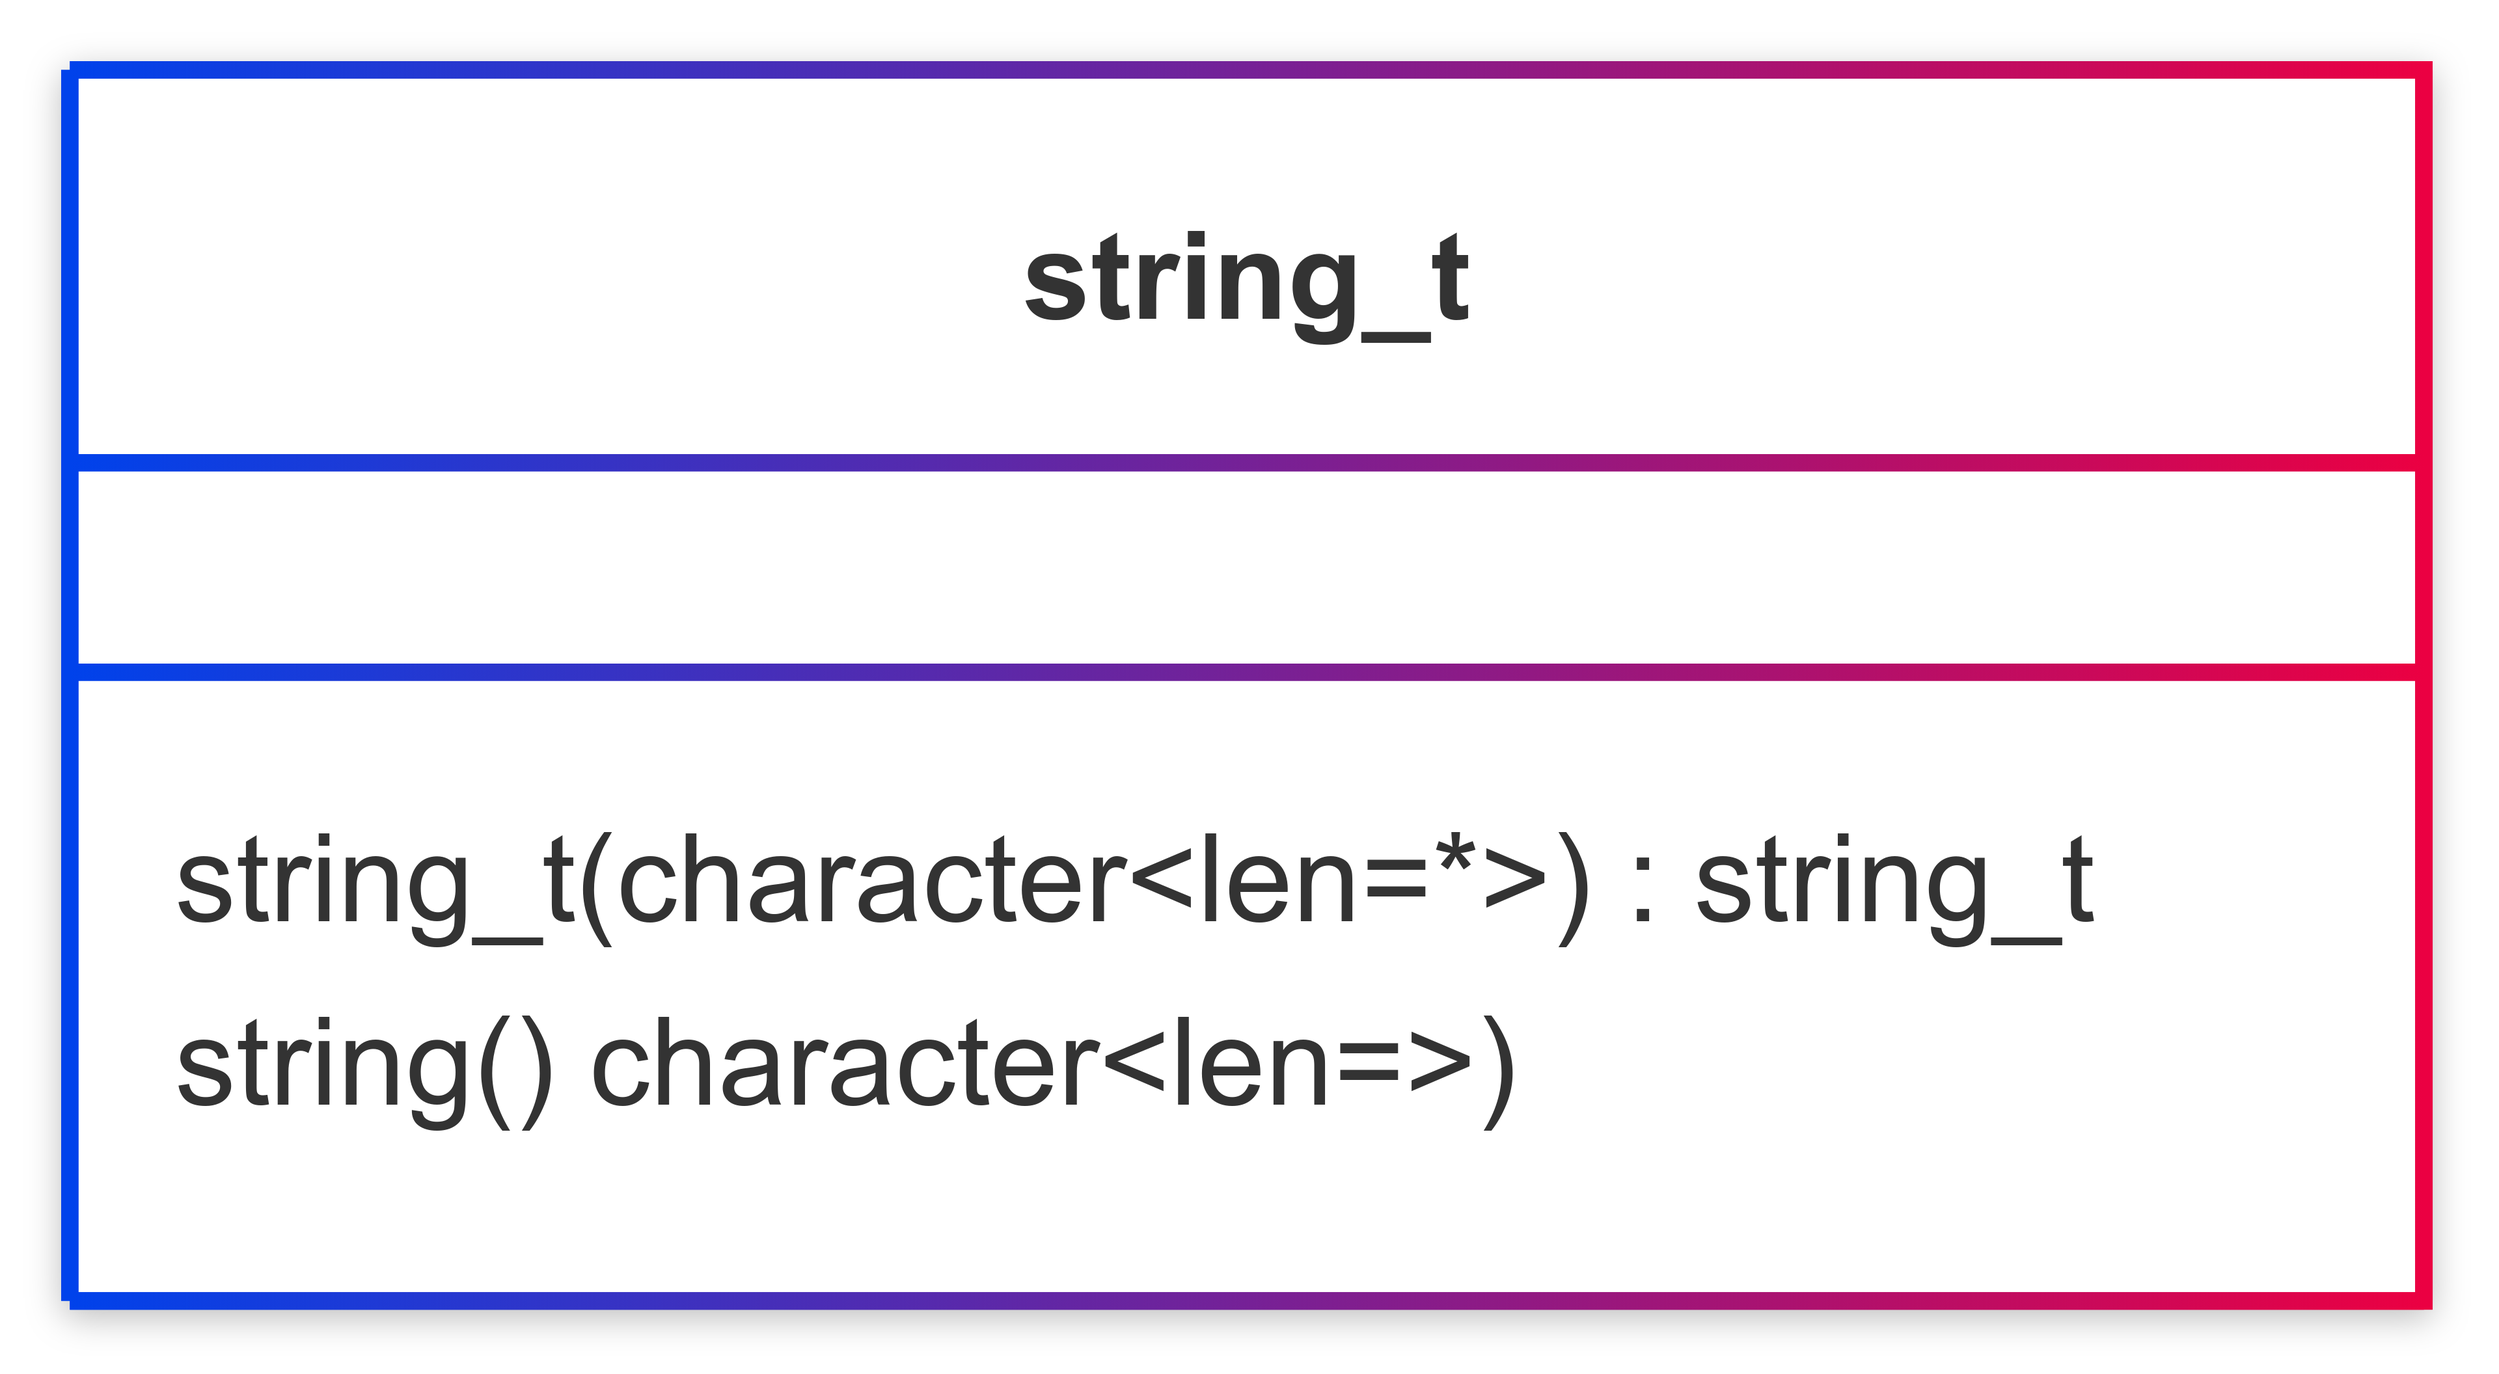
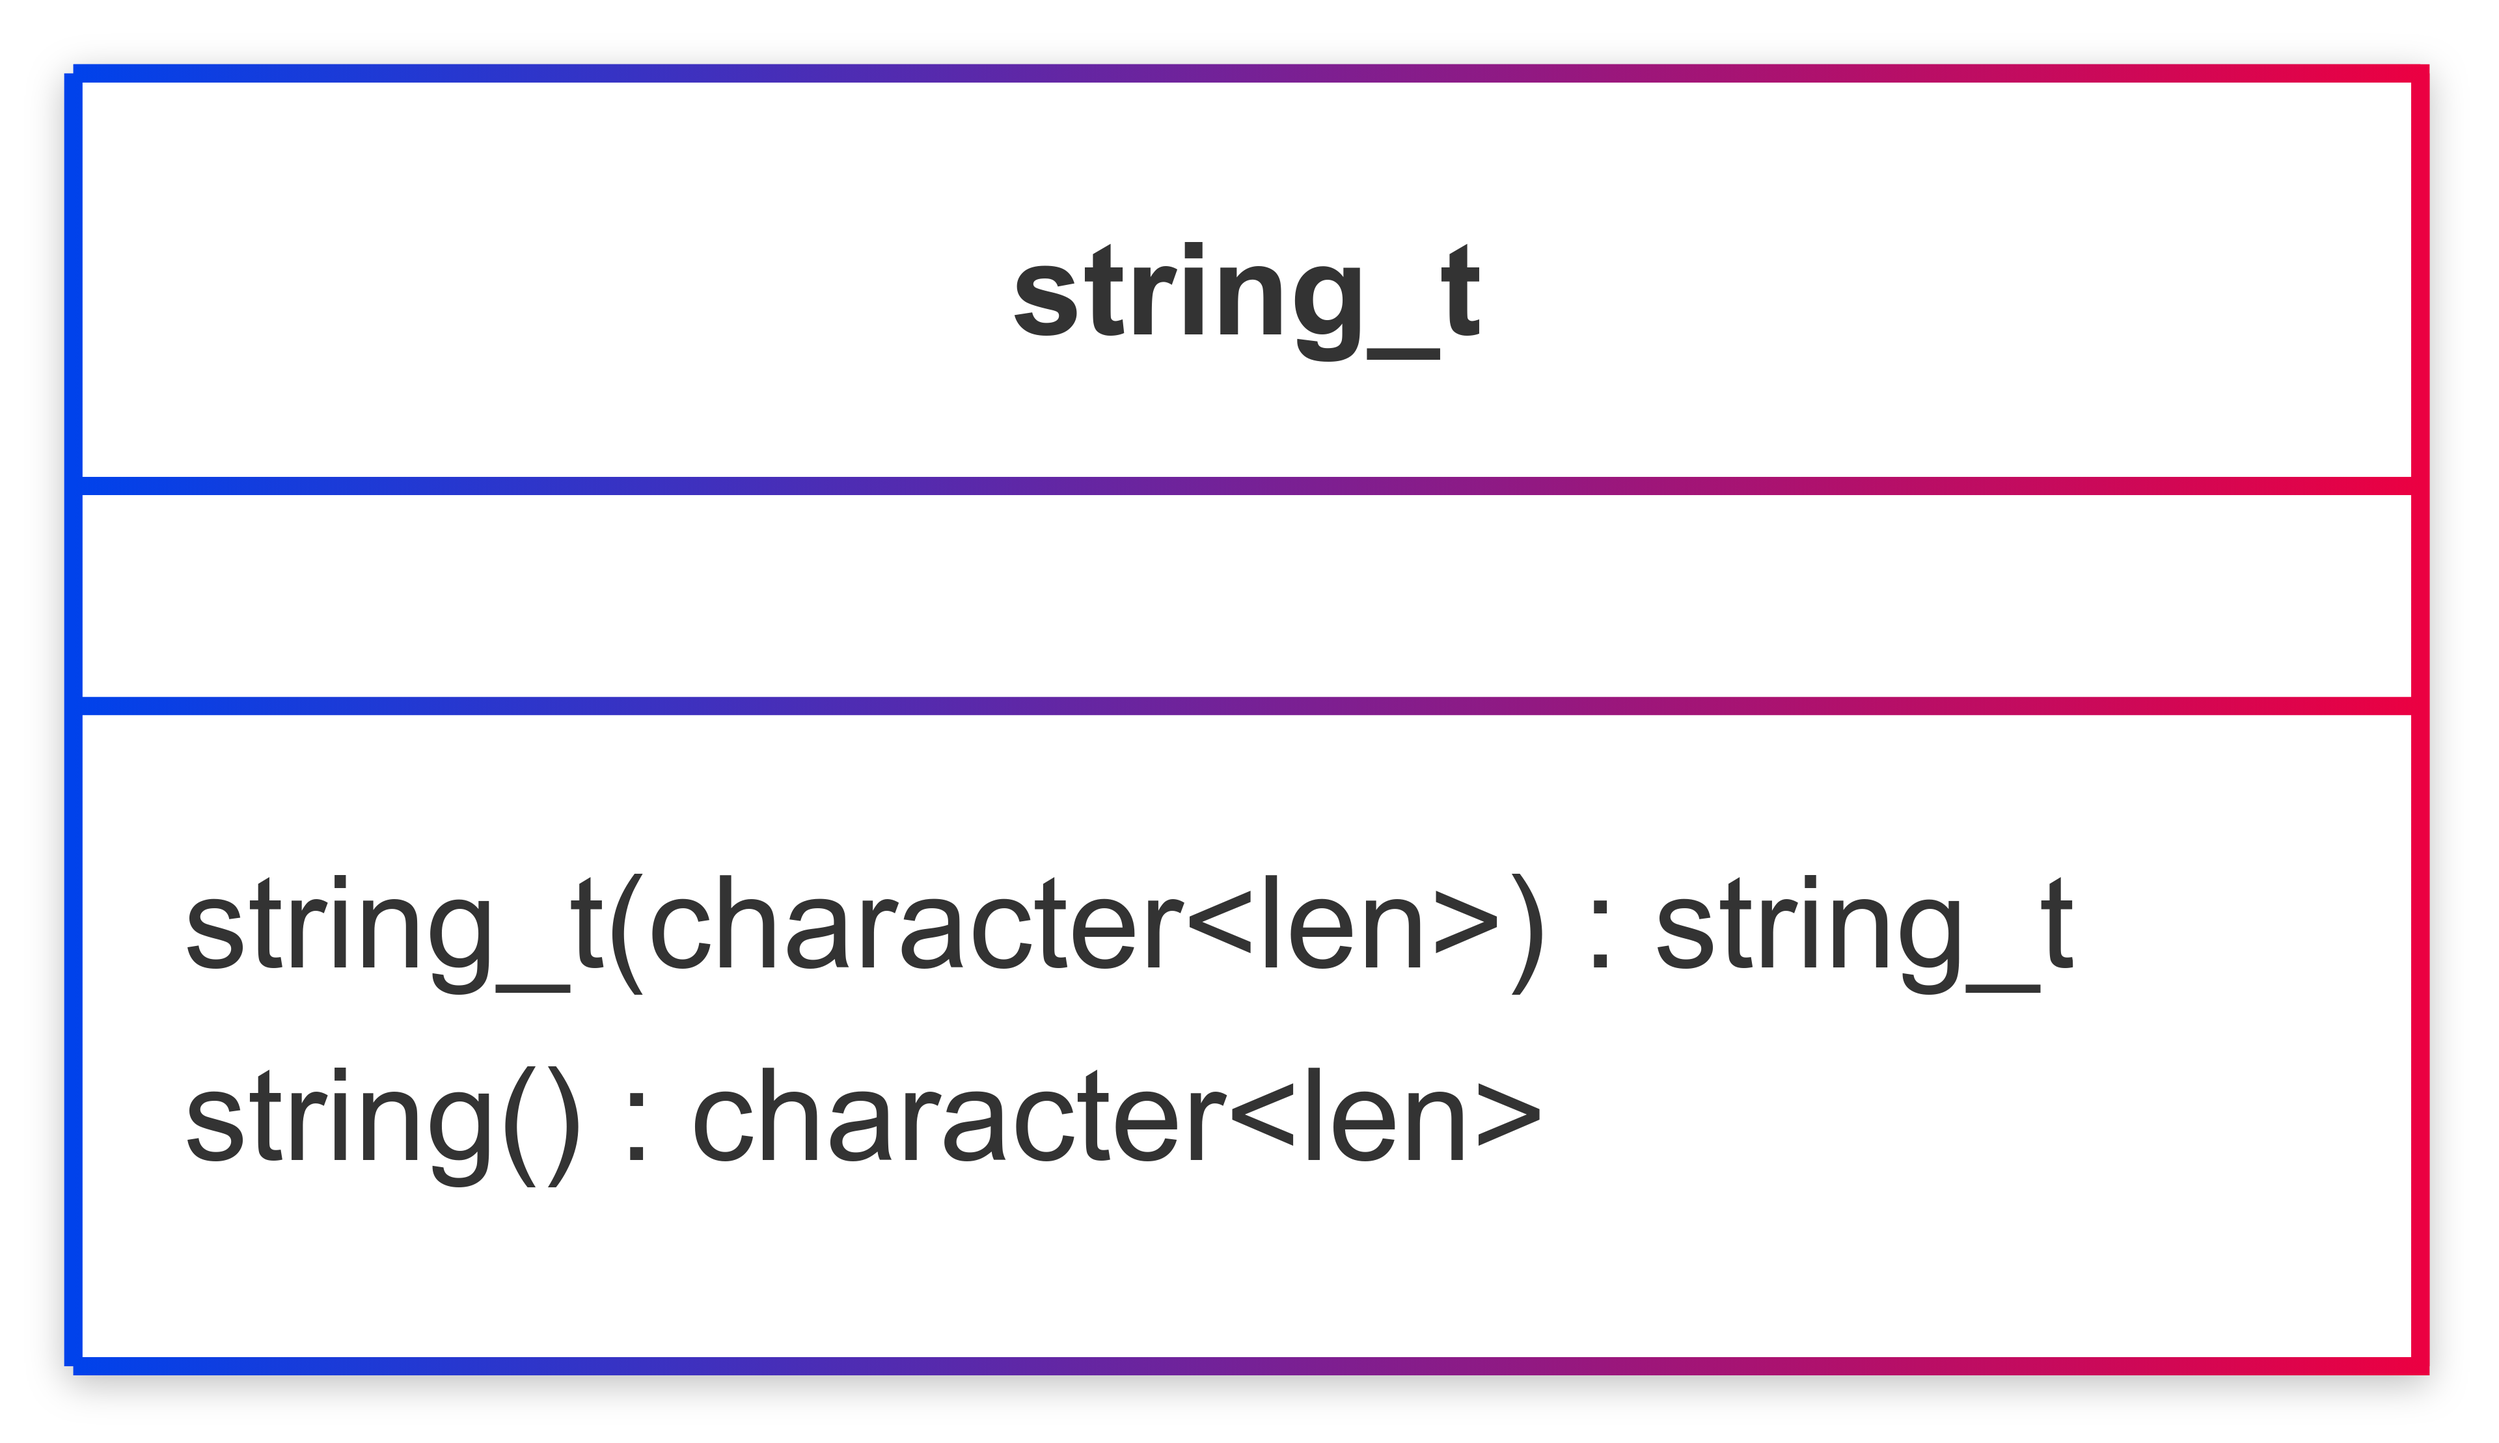
doc(string_t): fix class diagram

Changed region(s): [[0.0625, 0.5938, 0.8438, 0.6875], [0.0625, 0.75, 0.625, 0.8438], [0.4062, 0.1562, 0.5938, 0.25]]

diff --git a/doc/joss/string_t.md b/doc/joss/string_t.md
@@ -1,7 +1,3 @@
-Class Diagram
--------------
-This Unified Modeling Language (UML) class diagram depicts the derived types and procedures used in example/concurrent-inferences.f90 and in demo/app/train-cloud-microphysics.F90.
-
 ```mermaid
 
 %%{init: { 'theme':'neo',  "class" : {"hideEmptyMembersBox": true} } }%%
@@ -9,6 +5,6 @@ This Unified Modeling Language (UML) class diagram depicts the derived types and
 classDiagram
 
     class string_t{
-      string_t(character~len=*~) string_t
+      string_t(character~len=~) string_t
       string() character~len=~)
     }
